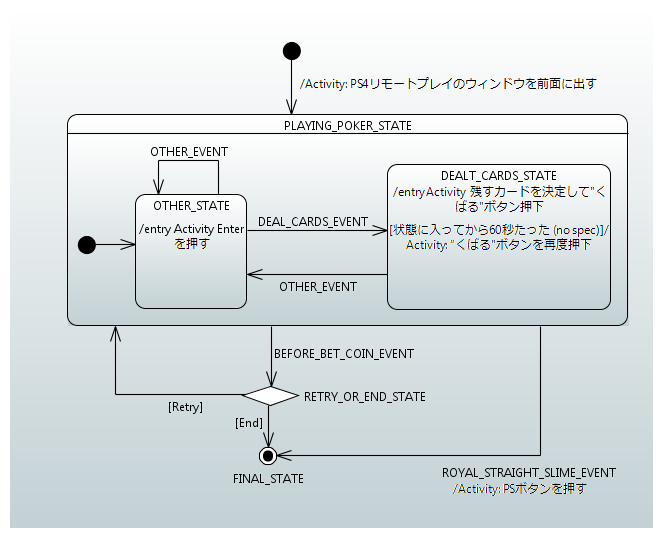
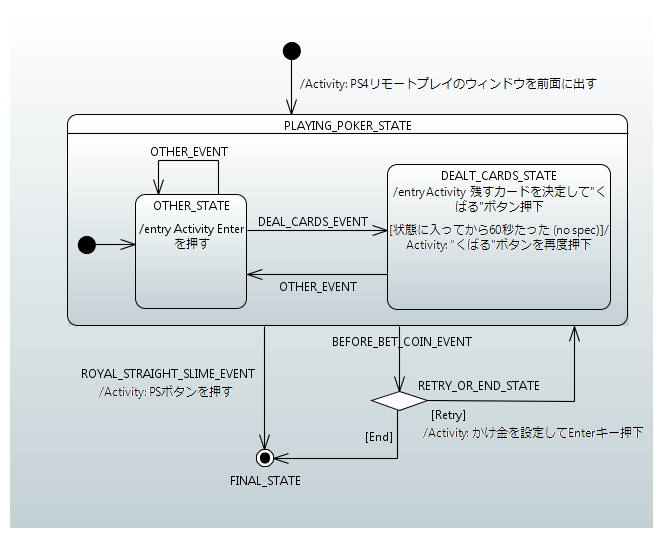
Polish statemachine diagram and README

diff --git a/README.md b/README.md
@@ -135,7 +135,10 @@ PS4リモートプレイをPC上で実行することで、PS4のゲームをキ
     * 画質: 540p (960x540)
     * フレームレート: 標準
 * PS4リモートプレイのウィンドウをデスクトップの左上にくっつける
-    * Windowsではフリーウェアのツールなどを駆使してください
+    * ウィンドウの位置座標を(0,0)またはそれに近い座標に設定してください
+        * Macの場合、メニューバーが画面上部にあると思うので、メニューバーの直下かつ左端に
+          ウィンドウが位置するようにしてください
+        * Windowsではフリーウェアのツールなどを駆使してください
     * ウィンドウは拡大しないでください
         * ゲーム画面(メニューバーなどは含まない)が960x540のサイズになっている必要があります
         * 手動でウィンドウサイズを変更してしまった場合は、ウィンドウサイズを元に戻してください
@@ -156,6 +159,7 @@ PS4リモートプレイをPC上で実行することで、PS4のゲームをキ
         * game-screen.location-y = (ウィンドウの高さ - 540) + ウィンドウ位置のY座標
     * なお、ゲーム画面の位置は以下のデフォルト値に設定されているため、
       計算結果がデフォルト値と一致する場合はツール起動時のオプション指定を省略できます。
+      (MacOSの場合、おそらく下記の値と一致すると思います)
         * game-screen.location-x = 0
         * game-screen.location-y = 45
 
@@ -226,7 +230,7 @@ $ java -jar autoplay-dq11-poker-1.0.0.RELEASE.jar --mode=CAPTURE_BET_COIN_INPUT 
 * 以下のコマンドを実行します。
 
 ```bash
-$ java -jar autoplay-dq11-poker-1.0.0.RELEASE.jar --mode=AUTOPLAY
+$ java -jar autoplay-dq11-poker-1.0.0.RELEASE.jar --mode=AUTOPLAY --game-screen.location-x=0 --game-screen.location-y=45
 ```
 
 * 自動実行を途中でやめたい場合は、マウスカーソルをデスクトップの左上の座標(0,0)に持っていき、
